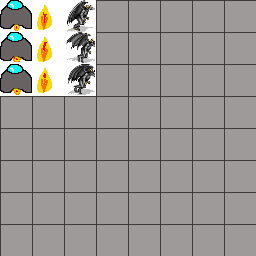
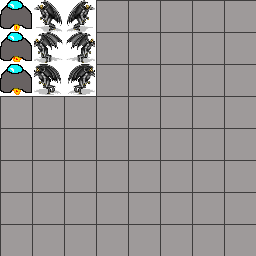
Flip enemy image

Changed region(s): [[0.125, 0.0, 0.25, 0.375]]

diff --git a/src/Enemy.java b/src/Enemy.java
@@ -19,10 +19,16 @@ public class Enemy implements Entity{
         this.game = game;
 
         this.ss = new SpriteSheet(game.getSpriteSheet());
+        if (this.x < 600) {
+            enemy[0] = ss.grabImage(3, 1, 32, 32);
+            enemy[1] = ss.grabImage(3, 2, 32, 32);
+            enemy[2] = ss.grabImage(3, 3, 32, 32);
+        } else {
+            enemy[0] = ss.grabImage(2, 1, 32, 32);
+            enemy[1] = ss.grabImage(2, 2, 32, 32);
+            enemy[2] = ss.grabImage(2, 3, 32, 32);
+        }
 
-        enemy[0] = ss.grabImage(3, 1, 32, 32);
-        enemy[1] = ss.grabImage(3, 2, 32, 32);
-        enemy[2] = ss.grabImage(3, 3, 32, 32);
 
         this.animation = new Animation(5, this.enemy[0], this.enemy[1], this.enemy[2]);
     }
